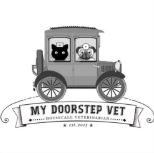
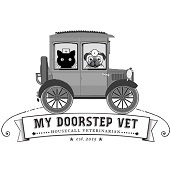
added responsiveness to images

diff --git a/index.html b/index.html
@@ -25,21 +25,24 @@
 
 		<h2>Featured Work</h2>
 		<section class="featured">
+			<div class="featured-pic">
 			<a href="https://houstongwg.github.io/Houston_GwG/grids/index.html" target="_blank">
-			<img class="featured-pic" src="img/grow-with-google-img.jpg" alt="Houston Grow with Google">
+			<img class="responsive" src="img/grow-with-google-img.jpg" alt="Houston Grow with Google">
 			<h4>Houston Grow with Google Group Project</h4></a>
-
+			</div>
+			
+			<div class="featured-pic">
 			<a href="https://codepen.io/ELehotzky/pen/VygqVX" target="_blank">
-			<img class="featured-pic" src="img/animal-trading-card-pic.jpg" alt="GwG Animal Trading Card">
+			<img class="responsive" src="img/animal-trading-card-pic.jpg" alt="GwG Animal Trading Card">
 			<h4>Animal Trading Card</h4></a>
-
+			</div>
+			
+			<div class="featured-pic">
 			<a href="https://www.mydoorstepvet.com/" target="_blank">
-			<img class="featured-pic" src="img/my-doorstep-vet-img.jpg" alt="My Doorstep Vet Wordpress">
+			<img class="responsive" src="img/my-doorstep-vet-img.jpg" alt="My Doorstep Vet Wordpress">
 			<h4>My Doorstep Vet</h4></a>
+			</div>
 		</section>
-
-	<hr>
-
 
 	<footer class="footer">
 		<h2>Connect with me!</h2>

diff --git a/css/styles.css b/css/styles.css
@@ -51,16 +51,20 @@ h2 {
 .featured {
 	display: flex;
 	flex-wrap: wrap;
-	width: 100%;
-	height: auto;
 	text-align: center;
+	width: 100%;
 	justify-content: center;
-	align-items: center;
+	align-content: center;
 }
 
 .featured-pic {
+	max-width: 33%;
+	margin: 30px;
+}
+
+.responsive {
 	max-width: 100%;
-	margin: 10px;
+	height: auto;
 }
 
 .footer {
@@ -83,3 +87,5 @@ a:hover {
 .fab {
 	padding: 5px;
 }
+
+@media screen and (max-width: 860px)
